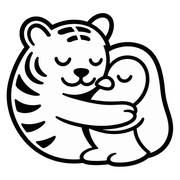
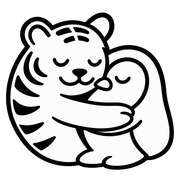
feat(checkin): 多位孩子報到視窗可同時收費；網站圖示改為透明背景
- 確認報到視窗中，未繳材料費的孩子可勾選「收費」並調整金額，按鈕顯示收費合計；確認後先記錄繳費再報到
- 一般報到時有孩子未繳費也會跳出確認視窗
- 五個系統的網站圖示換成透明背景的吉祥物

diff --git a/apps/checkin/components/CheckInDialogs.tsx b/apps/checkin/components/CheckInDialogs.tsx
@@ -12,10 +12,20 @@ export function blockedReason(r: ScanRow): string | null {
   return null;
 }
 
-/** 需要先確認：備取／待審核，或第一次報名（一般報到時補特殊需求） */
+/** 一般報到時還沒繳費（有材料費要收） */
+export const needsPayment = (r: ScanRow, course: string) => !course && r.應繳 > 0 && r.繳費狀態 !== '已繳';
+
+/** 需要先確認：備取／待審核、第一次報名（一般報到時補特殊需求），或還沒繳費 */
 export function needsConfirm(r: ScanRow, course: string): boolean {
   if (blockedReason(r)) return false;
-  return r.報名狀態 !== '正取' || (r.報名類型 === '第一次報名' && !r.報到狀態 && !course);
+  return r.報名狀態 !== '正取' || (r.報名類型 === '第一次報名' && !r.報到狀態 && !course) || needsPayment(r, course);
+}
+
+/** 確認視窗送出的每位孩子：可同時補特殊需求、記錄收費金額 */
+export interface CheckInItem {
+  報名ID: string;
+  特殊需求?: string;
+  繳費?: number;
 }
 
 /** 置中彈出視窗；點背景或關閉按鈕關閉 */
@@ -76,12 +86,16 @@ export function ConfirmDialog({
   course: string;
   pending: boolean;
   onCancel: () => void;
-  onConfirm: (items: { 報名ID: string; 特殊需求?: string }[]) => void;
+  onConfirm: (items: CheckInItem[]) => void;
   onSetAbsent: (報名ID: string) => Promise<ActionResult>;
 }) {
   const [checked, setChecked] = useState(() => new Set(rows.filter((r) => !blockedReason(r) && r.報名狀態 === '正取').map((r) => r.報名ID)));
   const [notes, setNotes] = useState<Record<string, string>>(() => Object.fromEntries(rows.map((r) => [r.報名ID, r.特殊需求])));
   const [markingAbsent, setMarkingAbsent] = useState<string | null>(null);
+  // 收費：每位孩子可勾選收費並調整金額（預設為應收）
+  const [paying, setPaying] = useState<Set<string>>(() => new Set());
+  const [amounts, setAmounts] = useState<Record<string, string>>(() => Object.fromEntries(rows.map((r) => [r.報名ID, String(r.應繳)])));
+  const payTotal = rows.filter((r) => checked.has(r.報名ID) && paying.has(r.報名ID)).reduce((sum, r) => sum + (Number(amounts[r.報名ID]) || 0), 0);
   const [error, setError] = useState('');
   const first = rows[0];
   const askNote = (r: ScanRow) => r.報名類型 === '第一次報名' && !r.報到狀態 && !course;
@@ -91,6 +105,7 @@ export function ConfirmDialog({
       <p className="mb-3 text-sm text-gray-600">
         {rows.some(askNote) && `第一次報名：請和家長確認電話（${first.電話}）並補充特殊需求。`}
         {rows.some((r) => r.報名狀態 !== '正取' && !blockedReason(r)) && '備取或待審核的孩子預設不勾選，確認後再勾選。'}
+        {rows.some((r) => needsPayment(r, course)) && '有材料費未繳的孩子，收費後勾選「收費」並確認金額。'}
       </p>
       {error && <p className="mb-3 rounded bg-red-50 px-2 py-1 text-sm text-red-700">{error}</p>}
       <div className="space-y-2">
@@ -116,6 +131,35 @@ export function ConfirmDialog({
                     />
                     報到
                   </label>
+                  {!course && r.繳費狀態 === '已繳' && <div className="mt-2 text-sm text-emerald-700">已繳 {r.繳費金額} 元</div>}
+                  {needsPayment(r, course) && (
+                    <div className="mt-2 flex flex-wrap items-center gap-2 text-sm">
+                      <label className="flex items-center gap-2 font-medium">
+                        <input
+                          type="checkbox"
+                          className="h-5 w-5"
+                          checked={paying.has(r.報名ID)}
+                          onChange={(e) => {
+                            const next = new Set(paying);
+                            if (e.target.checked) next.add(r.報名ID);
+                            else next.delete(r.報名ID);
+                            setPaying(next);
+                          }}
+                        />
+                        收費
+                      </label>
+                      <input
+                        type="number"
+                        min={0}
+                        inputMode="numeric"
+                        aria-label={`${r.姓名} 收費金額`}
+                        className="w-24 rounded-xl border border-gray-300 px-2 py-1 tabular-nums"
+                        value={amounts[r.報名ID] ?? ''}
+                        onChange={(e) => setAmounts({ ...amounts, [r.報名ID]: e.target.value })}
+                      />
+                      <span className="text-gray-500">元（應收 {r.應繳} 元）</span>
+                    </div>
+                  )}
                   {askNote(r) && (
                     <Textarea
                       rows={2}
@@ -160,11 +204,15 @@ export function ConfirmDialog({
             onConfirm(
               rows
                 .filter((r) => checked.has(r.報名ID))
-                .map((r) => (askNote(r) ? { 報名ID: r.報名ID, 特殊需求: notes[r.報名ID] ?? '' } : { 報名ID: r.報名ID })),
+                .map((r) => ({
+                  報名ID: r.報名ID,
+                  ...(askNote(r) ? { 特殊需求: notes[r.報名ID] ?? '' } : {}),
+                  ...(needsPayment(r, course) && paying.has(r.報名ID) ? { 繳費: Number(amounts[r.報名ID]) || 0 } : {}),
+                })),
             )
           }
         >
-          {pending ? '報到中…' : `確認報到（${checked.size} 位）`}
+          {pending ? '報到中…' : `確認報到（${checked.size} 位）${payTotal > 0 ? `・收費 ${payTotal} 元` : ''}`}
         </Button>
         <Button variant="ghost" onClick={onCancel}>
           取消

diff --git a/apps/checkin/components/CheckInBoard.tsx b/apps/checkin/components/CheckInBoard.tsx
@@ -5,7 +5,7 @@ import { Alert, Badge, Button, Card, Input, Select, buttonClass } from '@kids/ui
 import { checkInMany, fetchBoard, lookupScan, setPayment, setStatus, toggleFlag } from '@/lib/actions';
 import { CheckInStatus } from '@kids/schema';
 import type { ActionResult, Board, BoardRow, ScanRow } from '@/lib/types';
-import { ConfirmDialog, MessageDialog, ResultDialog, blockedReason, needsConfirm, type ResultState } from './CheckInDialogs';
+import { ConfirmDialog, MessageDialog, ResultDialog, blockedReason, needsConfirm, type CheckInItem, type ResultState } from './CheckInDialogs';
 import { Scanner } from './Scanner';
 import { BaseTabs, useBaseFilter } from './BaseTabs';
 
@@ -61,9 +61,11 @@ export function CheckInBoard({ eventId, initial, autoCheckIn = [] }: { eventId: 
   const closeMessage = useCallback(() => setMessage(''), []);
 
   /** 幫指定的孩子報到，然後彈出結果視窗 */
-  const runCheckIn = (rows: ScanRow[], method: string, items: { 報名ID: string; 特殊需求?: string }[]) =>
+  const runCheckIn = (rows: ScanRow[], method: string, items: CheckInItem[]) =>
     startTransition(async () => {
-      const outcomes = items.length > 0 ? await checkInMany(eventId, course, method, items) : [];
+      // 確認視窗勾了收費的孩子：先記錄繳費，再報到
+      for (const i of items) if (i.繳費 != null) await setPayment(eventId, i.報名ID, true, i.繳費);
+      const outcomes = items.length > 0 ? await checkInMany(eventId, course, method, items.map(({ 繳費: _p, ...rest }) => rest)) : [];
       const chosen = new Set(items.map((i) => i.報名ID));
       setConfirming(null);
       setResult({ rows, outcomes, skipped: rows.filter((r) => !blockedReason(r) && !chosen.has(r.報名ID)).map((r) => r.報名ID) });
@@ -107,7 +109,7 @@ export function CheckInBoard({ eventId, initial, autoCheckIn = [] }: { eventId: 
       const res = await setPayment(eventId, row.報名ID, true, Number(amount));
       show(res);
       await refresh();
-      if (!res.error && row.報到狀態 !== '已到' && row.報到狀態 !== '不會出席') startCheckIn(row);
+      if (!res.error && row.報到狀態 !== '已到' && row.報到狀態 !== '不會出席') startCheckIn({ ...row, 繳費狀態: '已繳' });
     });
   };
 
